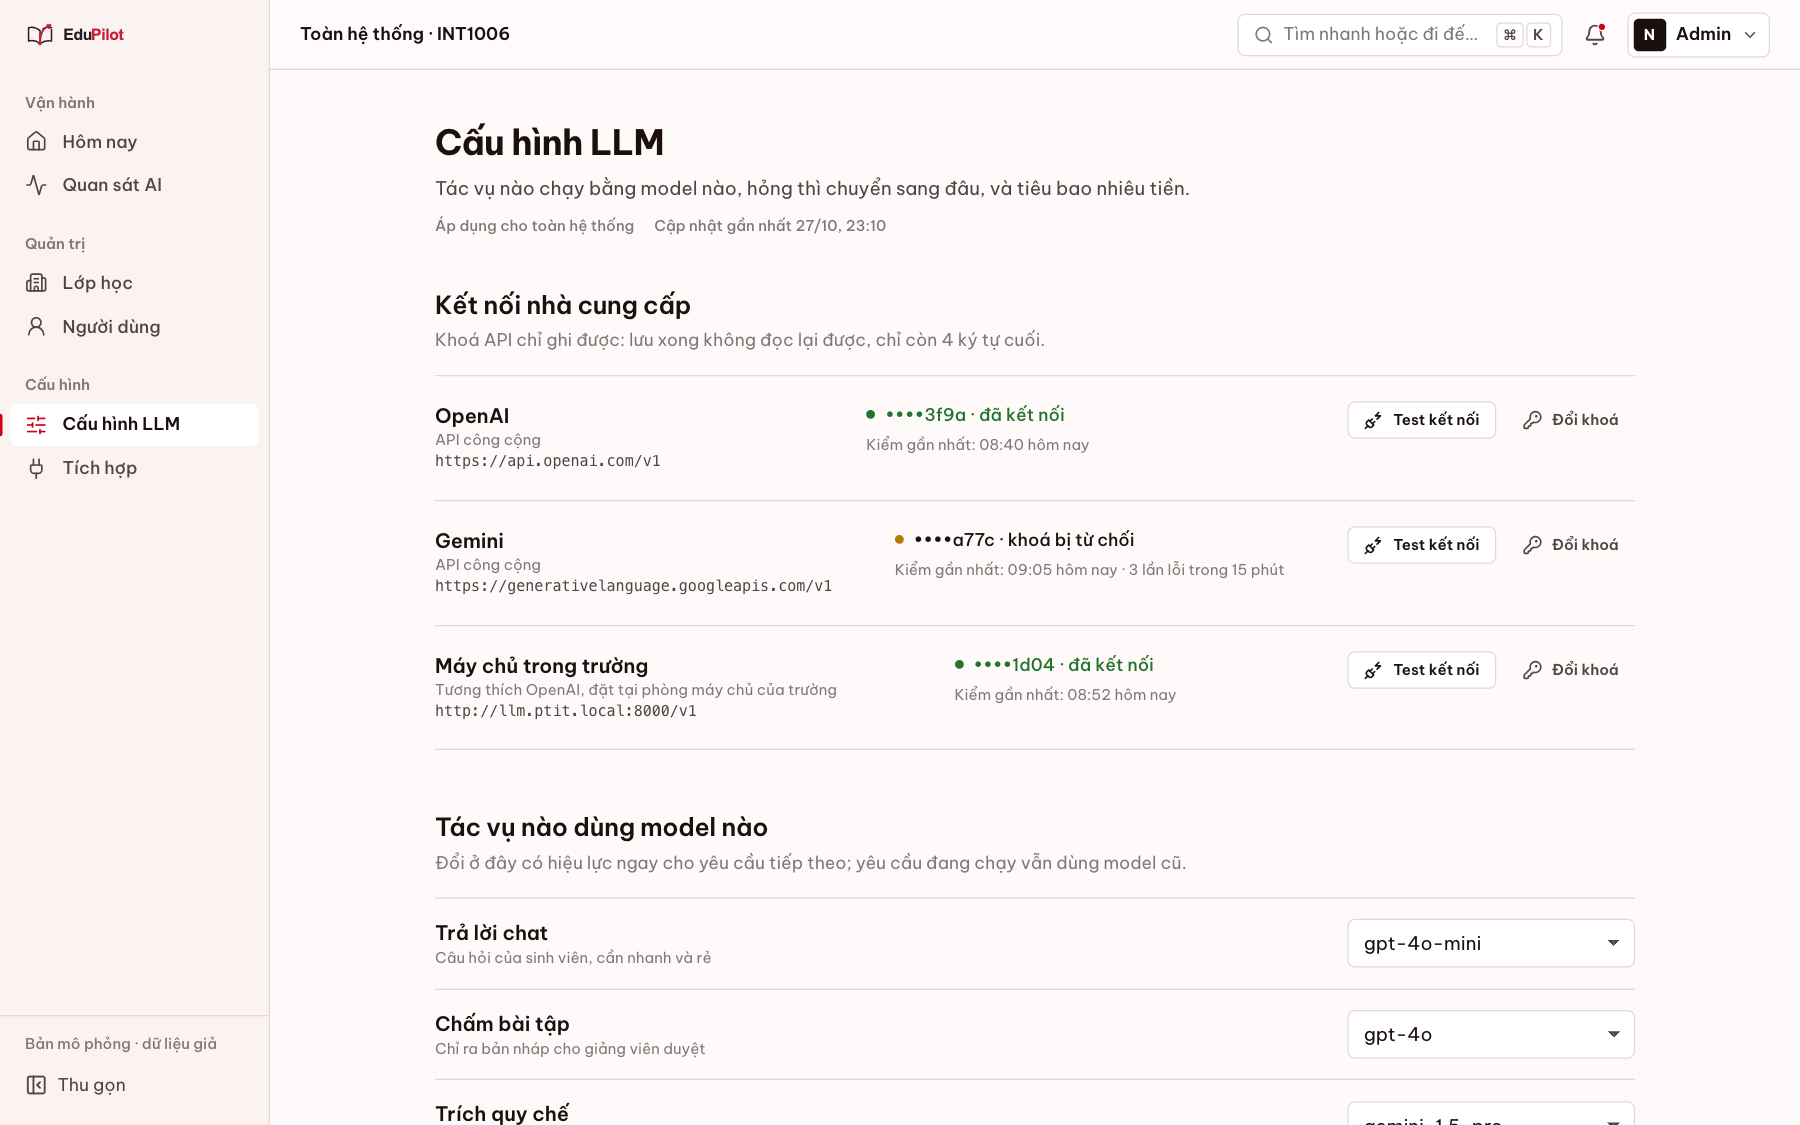
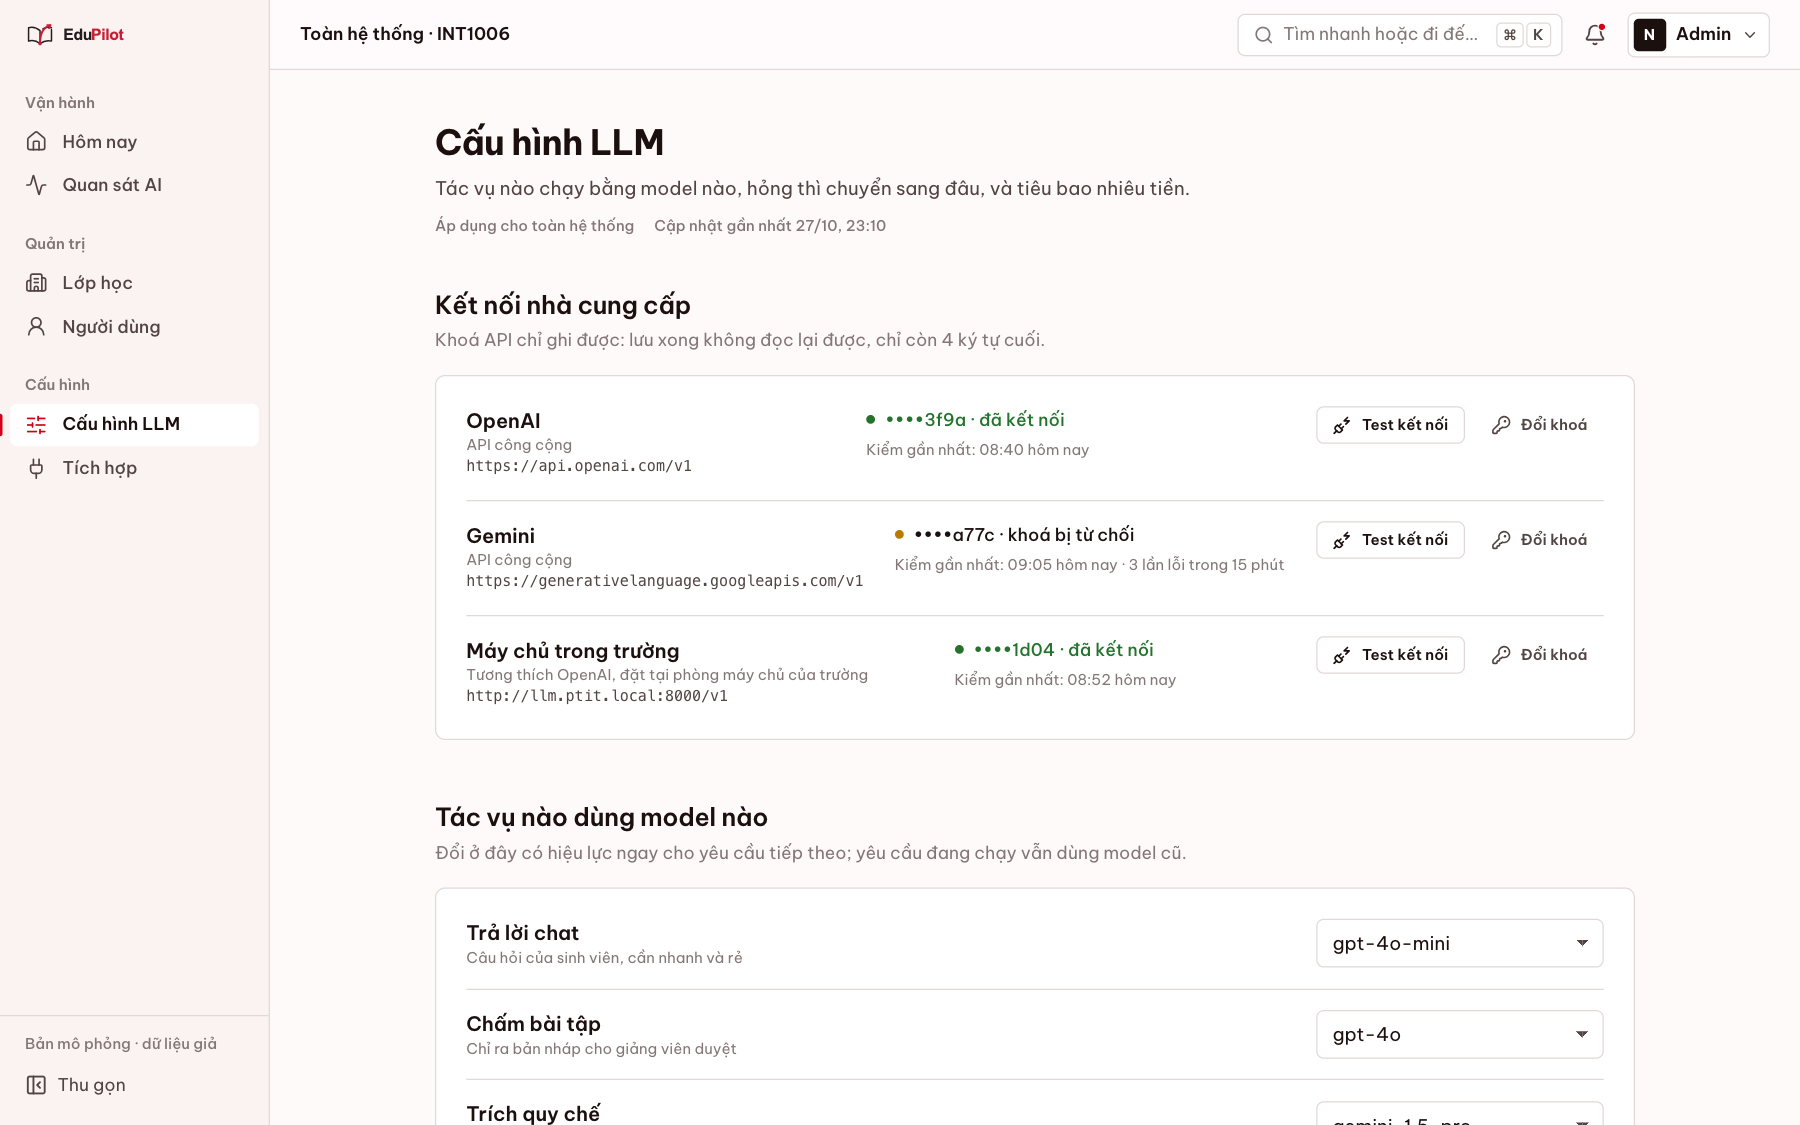
US-PROTO-04: phân định các panel cấu hình và phân tích insights (spec v4)

diff --git a/frontend/src/features/settings/settings.module.css b/frontend/src/features/settings/settings.module.css
@@ -1,23 +1,35 @@
 .loading { display: grid; gap: var(--ep-space-8); }
 
+/* Panel cấu hình độc lập (FR-X11, Proposal #16) */
+.configPanel {
+  background: var(--ep-surface);
+  border: 1px solid var(--ep-rule);
+  border-radius: var(--ep-radius-md);
+  padding: var(--ep-space-6);
+  display: grid;
+  gap: var(--ep-space-4);
+}
+
 .rows { display: grid; }
-.row { display: grid; gap: var(--ep-space-3); padding: var(--ep-space-5) 0; border-top: 1px solid var(--ep-rule); }
-.row:last-child { border-bottom: 1px solid var(--ep-rule); }
+.row { display: grid; gap: var(--ep-space-3); padding: var(--ep-space-4) 0; border-top: 1px solid var(--ep-rule); }
+.row:first-child { border-top: 0; padding-top: 0; }
+.row:last-child { border-bottom: 0; padding-bottom: 0; }
 .rowMain { display: flex; align-items: flex-start; justify-content: space-between; gap: var(--ep-space-6); flex-wrap: wrap; }
 .rowSide { display: grid; gap: var(--ep-space-1); min-width: 220px; }
 .rowActions { display: flex; align-items: center; gap: var(--ep-space-2); }
 
 .taskRow { display: flex; align-items: center; justify-content: space-between; gap: var(--ep-space-6); padding: var(--ep-space-4) 0; border-top: 1px solid var(--ep-rule); }
-.taskRow:last-child { border-bottom: 1px solid var(--ep-rule); }
+.taskRow:first-child { border-top: 0; padding-top: 0; }
+.taskRow:last-child { border-bottom: 0; padding-bottom: 0; }
 
-.sub { font-size: var(--ep-text-meta); color: var(--ep-ink-3); line-height: 1.45; }
-.mono { font-family: ui-monospace, SFMono-Regular, Menlo, monospace; font-size: var(--ep-text-meta); color: var(--ep-ink-2); }
+.sub { font-size: var(--ep-text-meta); color: var(--ep-ink-3); line-height: 1.45; margin: 0; }
+.mono { font-family: ui-monospace, SFMono-Regular, Menlo, monospace; font-size: var(--ep-text-meta); color: var(--ep-ink-2); margin: 0; }
 .modelSelect { width: auto; min-width: 230px; }
 
 .inlineForm { display: grid; gap: var(--ep-space-3); max-width: 420px; padding-left: var(--ep-space-4); border-left: 2px solid var(--ep-red-soft); }
 .inlineFormActions { display: flex; gap: var(--ep-space-2); }
 
-.chain { display: flex; align-items: center; gap: var(--ep-space-4); flex-wrap: wrap; font-size: var(--ep-text-label); }
+.chain { display: flex; align-items: center; gap: var(--ep-space-4); flex-wrap: wrap; font-size: var(--ep-text-label); list-style: none; margin: 0; padding: 0; }
 .chain li { display: flex; align-items: center; gap: var(--ep-space-2); }
 .chain li + li::before { content: "→"; margin-right: var(--ep-space-2); color: var(--ep-ink-3); }
 .chainIndex {
@@ -32,19 +44,26 @@
   color: var(--ep-ink-2);
 }
 
-/* Embedding tách khỏi phần còn lại bằng khoảng trống lớn + đường kẻ (DESIGN §14.23). */
-.embedding { display: grid; gap: var(--ep-space-4); margin-top: var(--ep-space-16); padding-top: var(--ep-space-8); border-top: 2px solid var(--ep-rule); }
-.sectionDesc { max-width: 68ch; font-size: var(--ep-text-label); color: var(--ep-ink-3); }
+/* Embedding tách khỏi phần còn lại bằng panel độc lập (DESIGN §14.23, Proposal #16). */
+.embedding { display: grid; gap: var(--ep-space-4); margin-top: var(--ep-space-8); }
+.sectionDesc { max-width: 68ch; font-size: var(--ep-text-label); color: var(--ep-ink-3); margin: 0; }
 
-.advanced { margin-top: var(--ep-space-12); font-size: var(--ep-text-label); }
-.advanced summary { width: fit-content; padding: var(--ep-space-2) 0; font-weight: 500; text-decoration: underline; text-decoration-color: var(--ep-rule); text-underline-offset: 3px; }
+.advanced { margin-top: var(--ep-space-4); font-size: var(--ep-text-label); }
+.advanced summary { width: fit-content; padding: var(--ep-space-2) 0; font-weight: 500; text-decoration: underline; text-decoration-color: var(--ep-rule); text-underline-offset: 3px; cursor: pointer; }
 .advanced summary:hover { text-decoration-color: var(--ep-red); }
 
-/* Tích hợp: mỗi mục là một vùng phẳng, ngăn bằng khoảng trống lớn, không phải ba thẻ (DESIGN §14.24). */
-.integration { display: grid; gap: var(--ep-space-4); padding: var(--ep-space-8) 0; border-top: 1px solid var(--ep-rule); }
-.integration:last-of-type { border-bottom: 1px solid var(--ep-rule); }
+/* Tích hợp: mỗi mục là một panel độc lập có viền, nền surface (FR-X11, Proposal #16). */
+.integration {
+  display: grid;
+  gap: var(--ep-space-4);
+  padding: var(--ep-space-6);
+  background: var(--ep-surface);
+  border: 1px solid var(--ep-rule);
+  border-radius: var(--ep-radius-md);
+  margin-bottom: var(--ep-space-6);
+}
 .integrationHead { display: flex; align-items: flex-start; justify-content: space-between; gap: var(--ep-space-6); flex-wrap: wrap; }
-.integrationPurpose { max-width: 68ch; color: var(--ep-ink-2); }
+.integrationPurpose { max-width: 68ch; color: var(--ep-ink-2); margin: var(--ep-space-1) 0 0; font-size: var(--ep-text-label); }
 
 @media (max-width: 719px) {
   .taskRow { flex-direction: column; align-items: stretch; gap: var(--ep-space-2); }

diff --git a/frontend/src/features/insights/insights.module.css b/frontend/src/features/insights/insights.module.css
@@ -6,40 +6,54 @@
 .step { display: flex; align-items: baseline; gap: var(--ep-space-3); padding: var(--ep-space-3) 0; border-top: 1px solid var(--ep-rule); }
 .step:last-child { border-bottom: 1px solid var(--ep-rule); }
 
-/* Danh sách chủ đề là bài viết có thứ hạng, không phải thẻ số liệu (DESIGN §14.21). */
-.topics { display: grid; }
-.topic { display: grid; gap: var(--ep-space-3); padding: var(--ep-space-6) 0; border-top: 1px solid var(--ep-rule); }
-.topic:last-child { border-bottom: 1px solid var(--ep-rule); }
+/* Danh sách chủ đề là panel độc lập rõ ràng (FR-X11, Proposal #16). */
+.topics { display: grid; gap: var(--ep-space-5); }
+.topic {
+  display: grid;
+  gap: var(--ep-space-3);
+  padding: var(--ep-space-6);
+  background: var(--ep-surface);
+  border: 1px solid var(--ep-rule);
+  border-radius: var(--ep-radius-md);
+}
 
 .topicHead { display: flex; align-items: baseline; gap: var(--ep-space-4); }
 .rank { font-size: var(--ep-text-section); font-weight: 650; color: var(--ep-ink-3); font-variant-numeric: tabular-nums; min-width: 1.25rem; }
 .topicTitle { display: grid; gap: var(--ep-space-1); min-width: 0; }
 
-.why { max-width: 68ch; color: var(--ep-ink); }
+.why { max-width: 68ch; color: var(--ep-ink); margin: 0; }
 
-.signals { display: grid; gap: var(--ep-space-1); padding-left: var(--ep-space-8); max-width: 68ch; font-size: var(--ep-text-label); color: var(--ep-ink-2); }
+.signals { display: grid; gap: var(--ep-space-1); padding-left: var(--ep-space-8); max-width: 68ch; font-size: var(--ep-text-label); color: var(--ep-ink-2); list-style: none; margin: 0; }
 .signals li { position: relative; line-height: 1.5; }
 .signals li::before { content: ""; position: absolute; left: calc(-1 * var(--ep-space-4)); top: .55em; width: 4px; height: 4px; border-radius: var(--ep-radius-pill); background: var(--ep-rule); }
 
 .samples { margin-left: var(--ep-space-8); font-size: var(--ep-text-label); }
-.samples summary { width: fit-content; padding: var(--ep-space-1) 0; color: var(--ep-ink); font-weight: 500; text-decoration: underline; text-decoration-color: var(--ep-rule); text-underline-offset: 3px; }
+.samples summary { width: fit-content; padding: var(--ep-space-1) 0; color: var(--ep-ink); font-weight: 500; text-decoration: underline; text-decoration-color: var(--ep-rule); text-underline-offset: 3px; cursor: pointer; }
 .samples summary:hover { text-decoration-color: var(--ep-red); }
-.samples ul { display: grid; gap: var(--ep-space-2); margin-top: var(--ep-space-2); padding-left: var(--ep-space-4); border-left: 2px solid var(--ep-red-soft); max-width: 68ch; color: var(--ep-ink-2); line-height: 1.5; }
+.samples ul { display: grid; gap: var(--ep-space-2); margin-top: var(--ep-space-2); padding-left: var(--ep-space-4); border-left: 2px solid var(--ep-red-soft); max-width: 68ch; color: var(--ep-ink-2); line-height: 1.5; list-style: none; }
 
-.noSamples { margin-left: var(--ep-space-8); max-width: 68ch; font-size: var(--ep-text-label); color: var(--ep-ink-3); }
+.noSamples { margin-left: var(--ep-space-8); max-width: 68ch; font-size: var(--ep-text-label); color: var(--ep-ink-3); margin-top: 0; }
 
-.action { margin-left: var(--ep-space-8); max-width: 68ch; font-size: var(--ep-text-label); }
+.action { margin-left: var(--ep-space-8); max-width: 68ch; font-size: var(--ep-text-label); margin-top: 0; }
 .actionLabel { font-weight: 600; color: var(--ep-red); }
 .actionLabel::after { content: ":"; }
 
 .topicActions { display: flex; gap: var(--ep-space-2); margin-left: var(--ep-space-8); flex-wrap: wrap; }
 
-.gaps { display: grid; }
-.gap { display: flex; align-items: flex-start; justify-content: space-between; gap: var(--ep-space-6); padding: var(--ep-space-4) 0; border-top: 1px solid var(--ep-rule); }
-.gap:last-child { border-bottom: 1px solid var(--ep-rule); }
+.gaps { display: grid; gap: var(--ep-space-3); }
+.gap {
+  display: flex;
+  align-items: flex-start;
+  justify-content: space-between;
+  gap: var(--ep-space-6);
+  padding: var(--ep-space-4) var(--ep-space-5);
+  background: var(--ep-surface);
+  border: 1px solid var(--ep-rule);
+  border-radius: var(--ep-radius-sm);
+}
 .gapNote { margin-top: var(--ep-space-1); max-width: 68ch; font-size: var(--ep-text-label); color: var(--ep-ink-2); }
 
-.compare { display: grid; gap: var(--ep-space-2); max-width: 68ch; font-size: var(--ep-text-label); color: var(--ep-ink-2); }
+.compare { display: grid; gap: var(--ep-space-2); max-width: 68ch; font-size: var(--ep-text-label); color: var(--ep-ink-2); list-style: none; margin: 0; padding: 0; }
 .compare li { padding-left: var(--ep-space-4); border-left: 2px solid var(--ep-rule); line-height: 1.5; }
 
 @media (max-width: 719px) {

diff --git a/frontend/src/features/settings/LlmSettings.tsx b/frontend/src/features/settings/LlmSettings.tsx
@@ -73,6 +73,7 @@ export function LlmSettings() {
         )}
 
         <Section title="Kết nối nhà cung cấp" description="Khoá API chỉ ghi được: lưu xong không đọc lại được, chỉ còn 4 ký tự cuối.">
+          <div className={s.configPanel}>
           <ul className={s.rows}>
             {PROVIDERS.map((p) => {
               const tail = keys[p.id] ?? p.keyTail;
@@ -138,9 +139,11 @@ export function LlmSettings() {
               );
             })}
           </ul>
+          </div>
         </Section>
 
         <Section title="Tác vụ nào dùng model nào" description="Đổi ở đây có hiệu lực ngay cho yêu cầu tiếp theo; yêu cầu đang chạy vẫn dùng model cũ.">
+          <div className={s.configPanel}>
           <ul className={s.rows}>
             {TASK_ROUTES.map((r) => {
               const model = routes[r.id] ?? r.model;
@@ -165,10 +168,12 @@ export function LlmSettings() {
               );
             })}
           </ul>
+          </div>
           {undo.node}
         </Section>
 
         <Section title="Chuỗi dự phòng" description="Khi nhà cung cấp đầu tiên hỏng, yêu cầu tự chuyển xuống nhà cung cấp kế tiếp, không báo lỗi cho sinh viên.">
+          <div className={s.configPanel}>
           <ol className={s.chain}>
             {FALLBACK_CHAIN.map((name, i) => (
               <li key={name}>
@@ -178,11 +183,13 @@ export function LlmSettings() {
               </li>
             ))}
           </ol>
+          </div>
         </Section>
 
         <section className={s.embedding}>
           <h2 className="ep-section-title">Mô hình embedding</h2>
           <p className={s.sectionDesc}>Tách riêng vì đổi mô hình này buộc phải đánh chỉ mục lại toàn bộ tài liệu, không chỉ đổi cấu hình.</p>
+          <div className={s.configPanel}>
           <DefinitionList
             items={[
               {
@@ -208,9 +215,11 @@ export function LlmSettings() {
               {EMBEDDING.chunks} sẽ được tính lại bằng {embedding} (khoảng 25 phút). Trong lúc đó AI vẫn trả lời được nhưng tìm tài liệu kém chính xác hơn, và chi phí của ngày hôm nay tăng thêm khoảng 60.000 đ.
             </InlineNotice>
           )}
+        </div>
         </section>
 
         <Section title="Ngân sách" description="Trần chi tiêu cho toàn hệ thống. Chạm trần không tắt chat, chỉ hạ model.">
+          <div className={s.configPanel}>
           <BarList
             items={[
               { label: `Hôm nay · ${BUDGET.dayUsed} / ${BUDGET.dayCap}`, value: BUDGET.dayPercent, tone: "ink" },
@@ -220,6 +229,7 @@ export function LlmSettings() {
             format={(v) => `${v}%`}
           />
           <p className={s.sub}>{BUDGET.note}</p>
+          </div>
         </Section>
 
         <details className={s.advanced}>

diff --git a/docs/sprints/1.5/handoff/dev-US-PROTO-04.md b/docs/sprints/1.5/handoff/dev-US-PROTO-04.md
@@ -37,3 +37,7 @@ F=http://localhost:3000 bash docs/sprints/1.5/qc/scripts/proto-curl.sh tc_04_01 
 
 ## Nợ / chưa làm / cần hỏi
 - Chi tiết yêu cầu ở Observability của Admin mở drawer hiển thị log kiểm toán mô phỏng.
+
+## Cập nhật theo spec v4 (Proposals #16)
+- Phân định rõ các khối cấu hình thành các panel sạch sẽ (`configPanel`, `integration`): viền `1px solid var(--ep-rule)`, nền `var(--ep-surface)`, bo góc `var(--ep-radius-md)`, padding `var(--ep-space-6)` ở `/settings/llm` và `/settings/integrations`.
+- Danh sách chủ đề ở `/insights` được đóng gói thành các panel độc lập rõ ràng (`.topic`, `.gap`).
